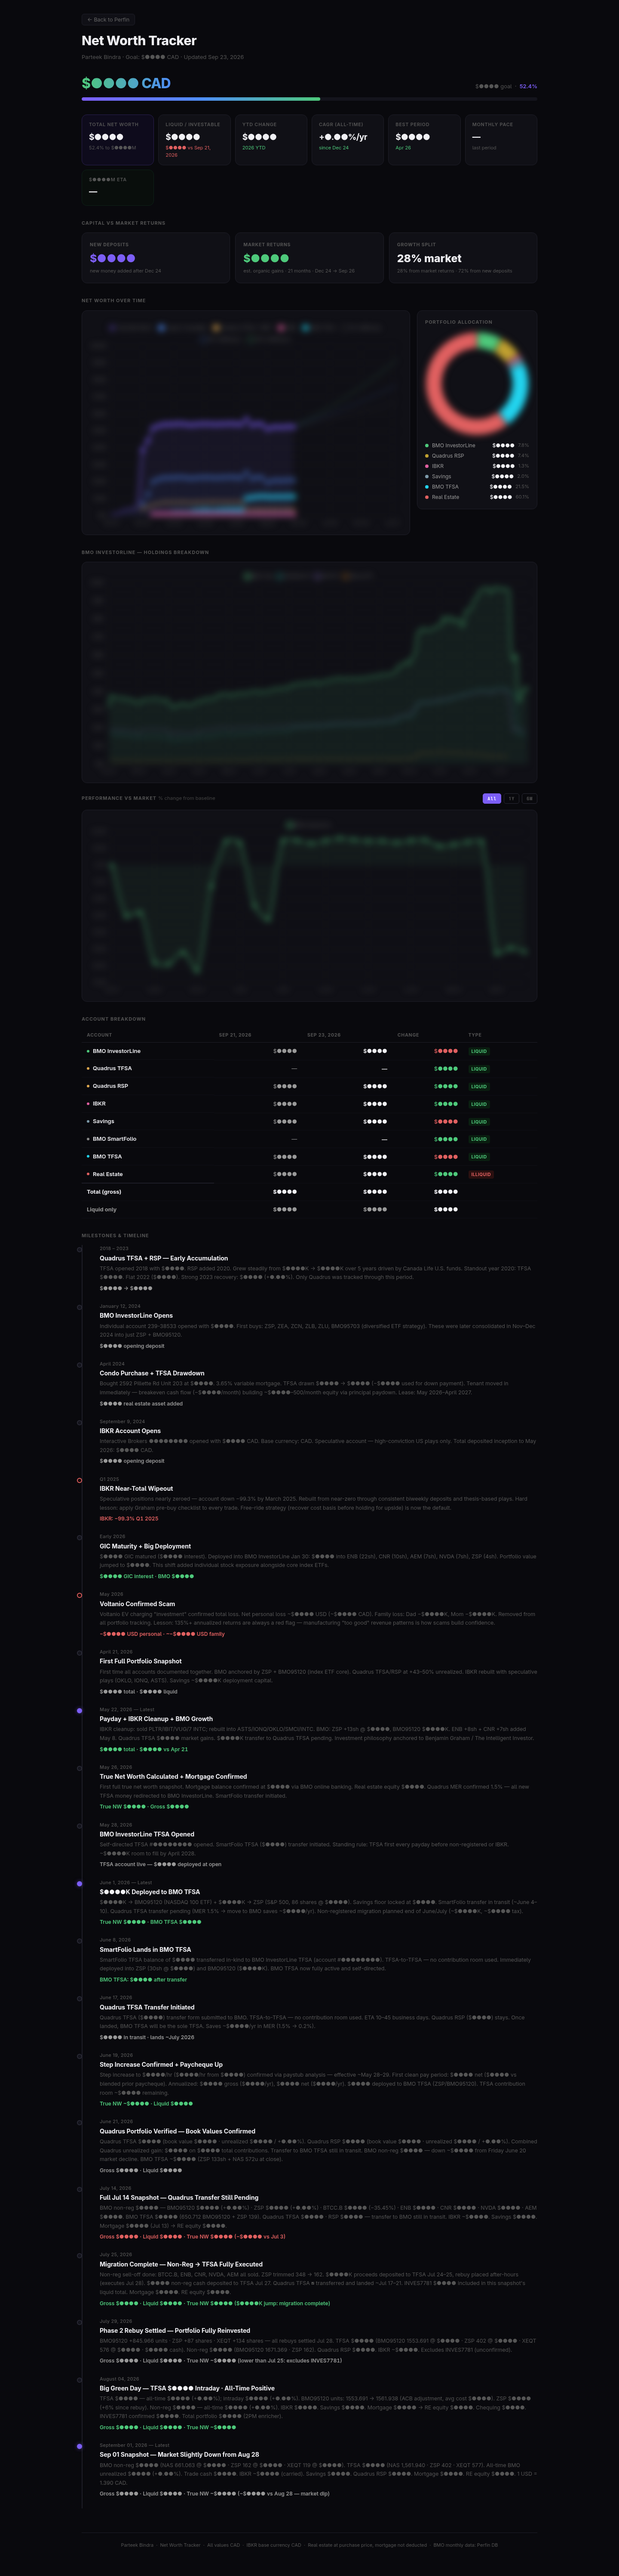
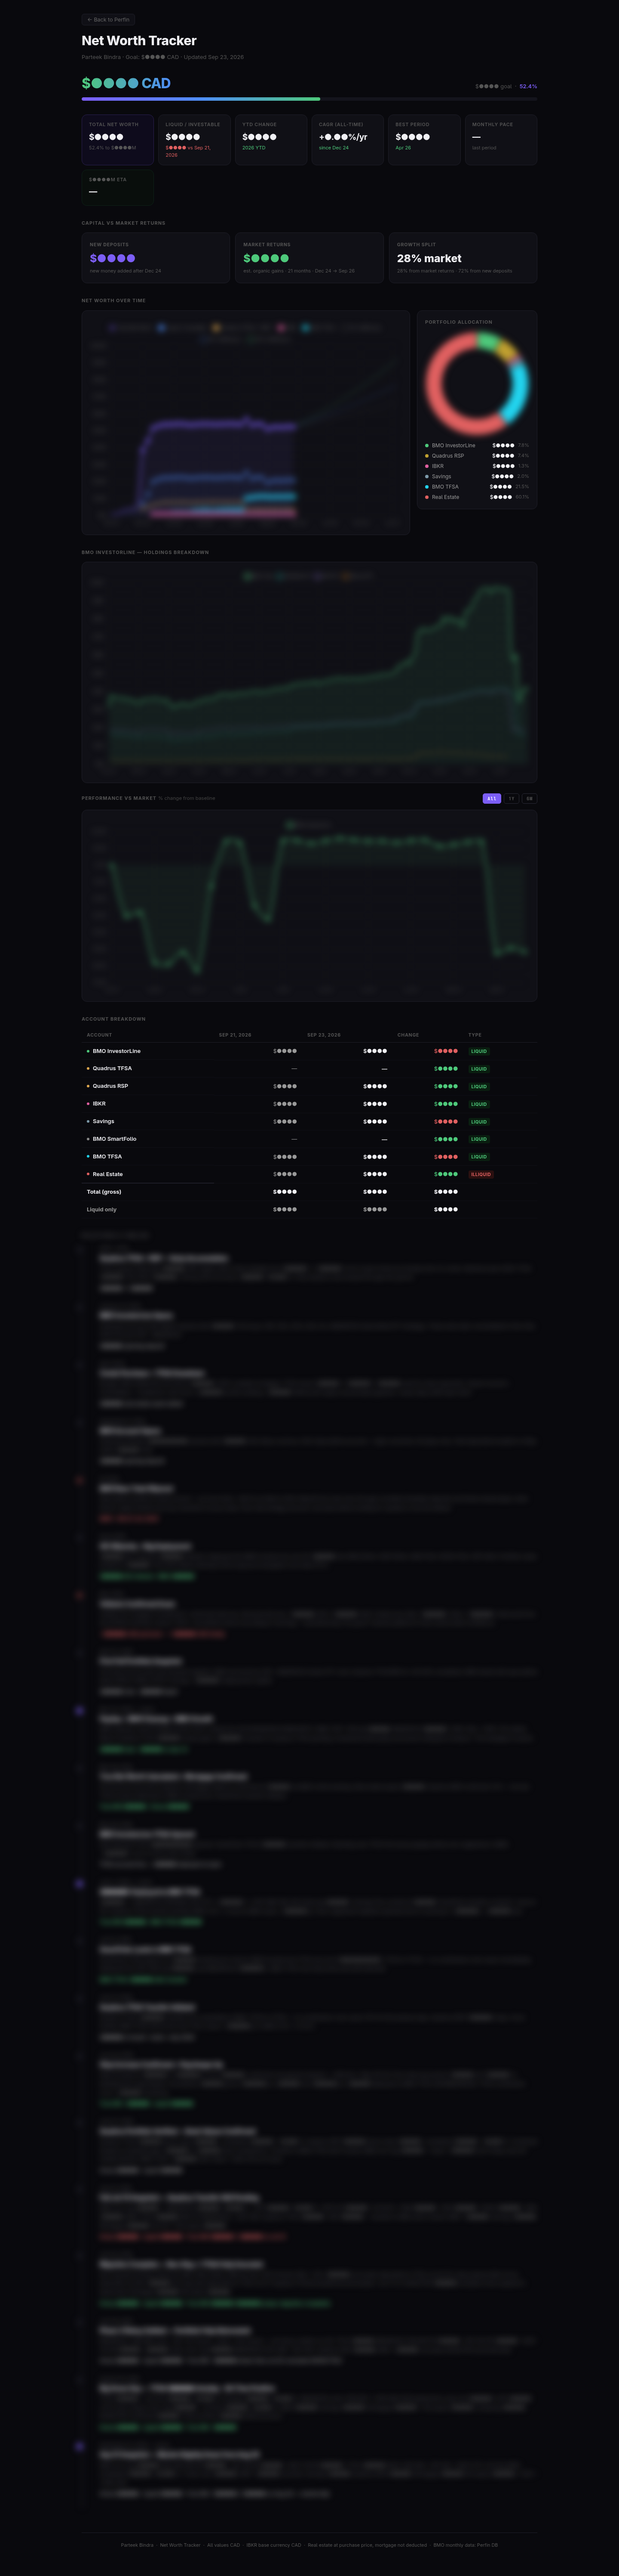
Blur cannabis merchant in dashboard, milestones/timeline in networth, add health daily

Changed region(s): [[0.1562, 0.4688, 0.4688, 0.9688]]

diff --git a/README.md b/README.md
@@ -43,6 +43,9 @@ Personal finance and health dashboard — full-stack web app built in Python (Fl
 ### Portfolio — Weekly View
 ![Portfolio Weekly](screenshots/portfolio_weekly.png)
 
+### Health — Daily
+![Health Daily](screenshots/health_daily.png)
+
 ### Health — Weekly
 ![Health Weekly](screenshots/health_weekly.png)
 
